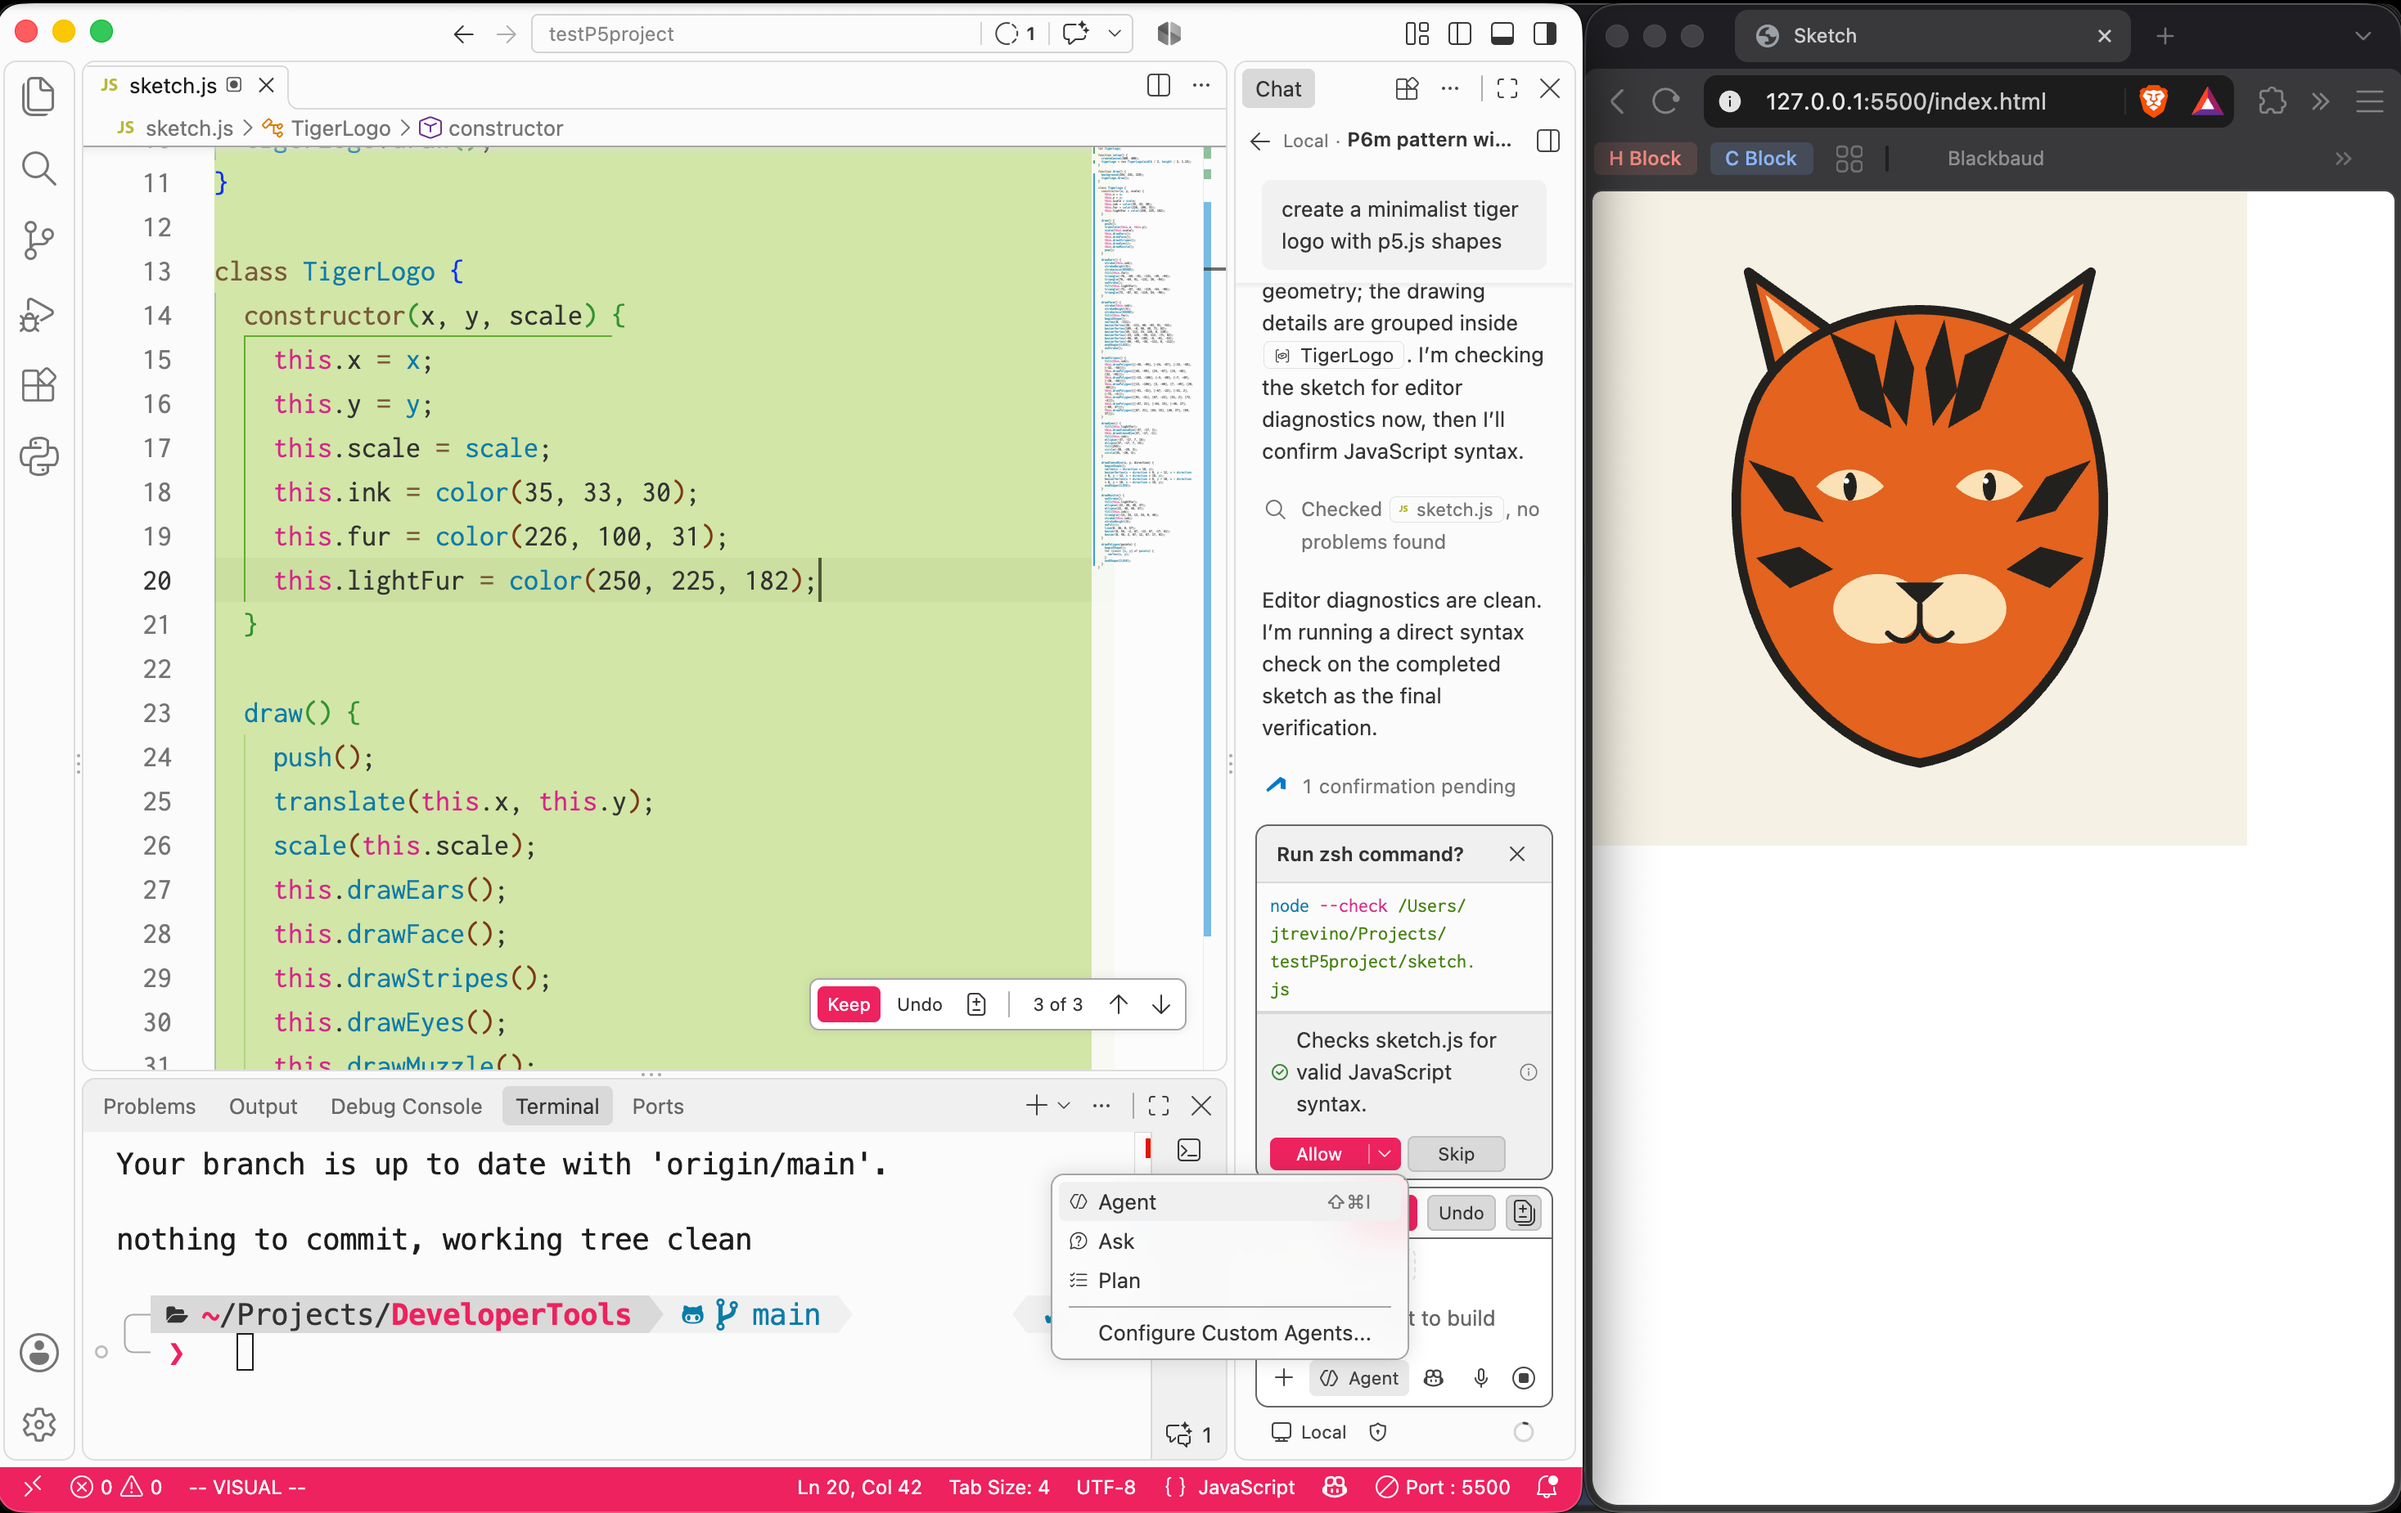
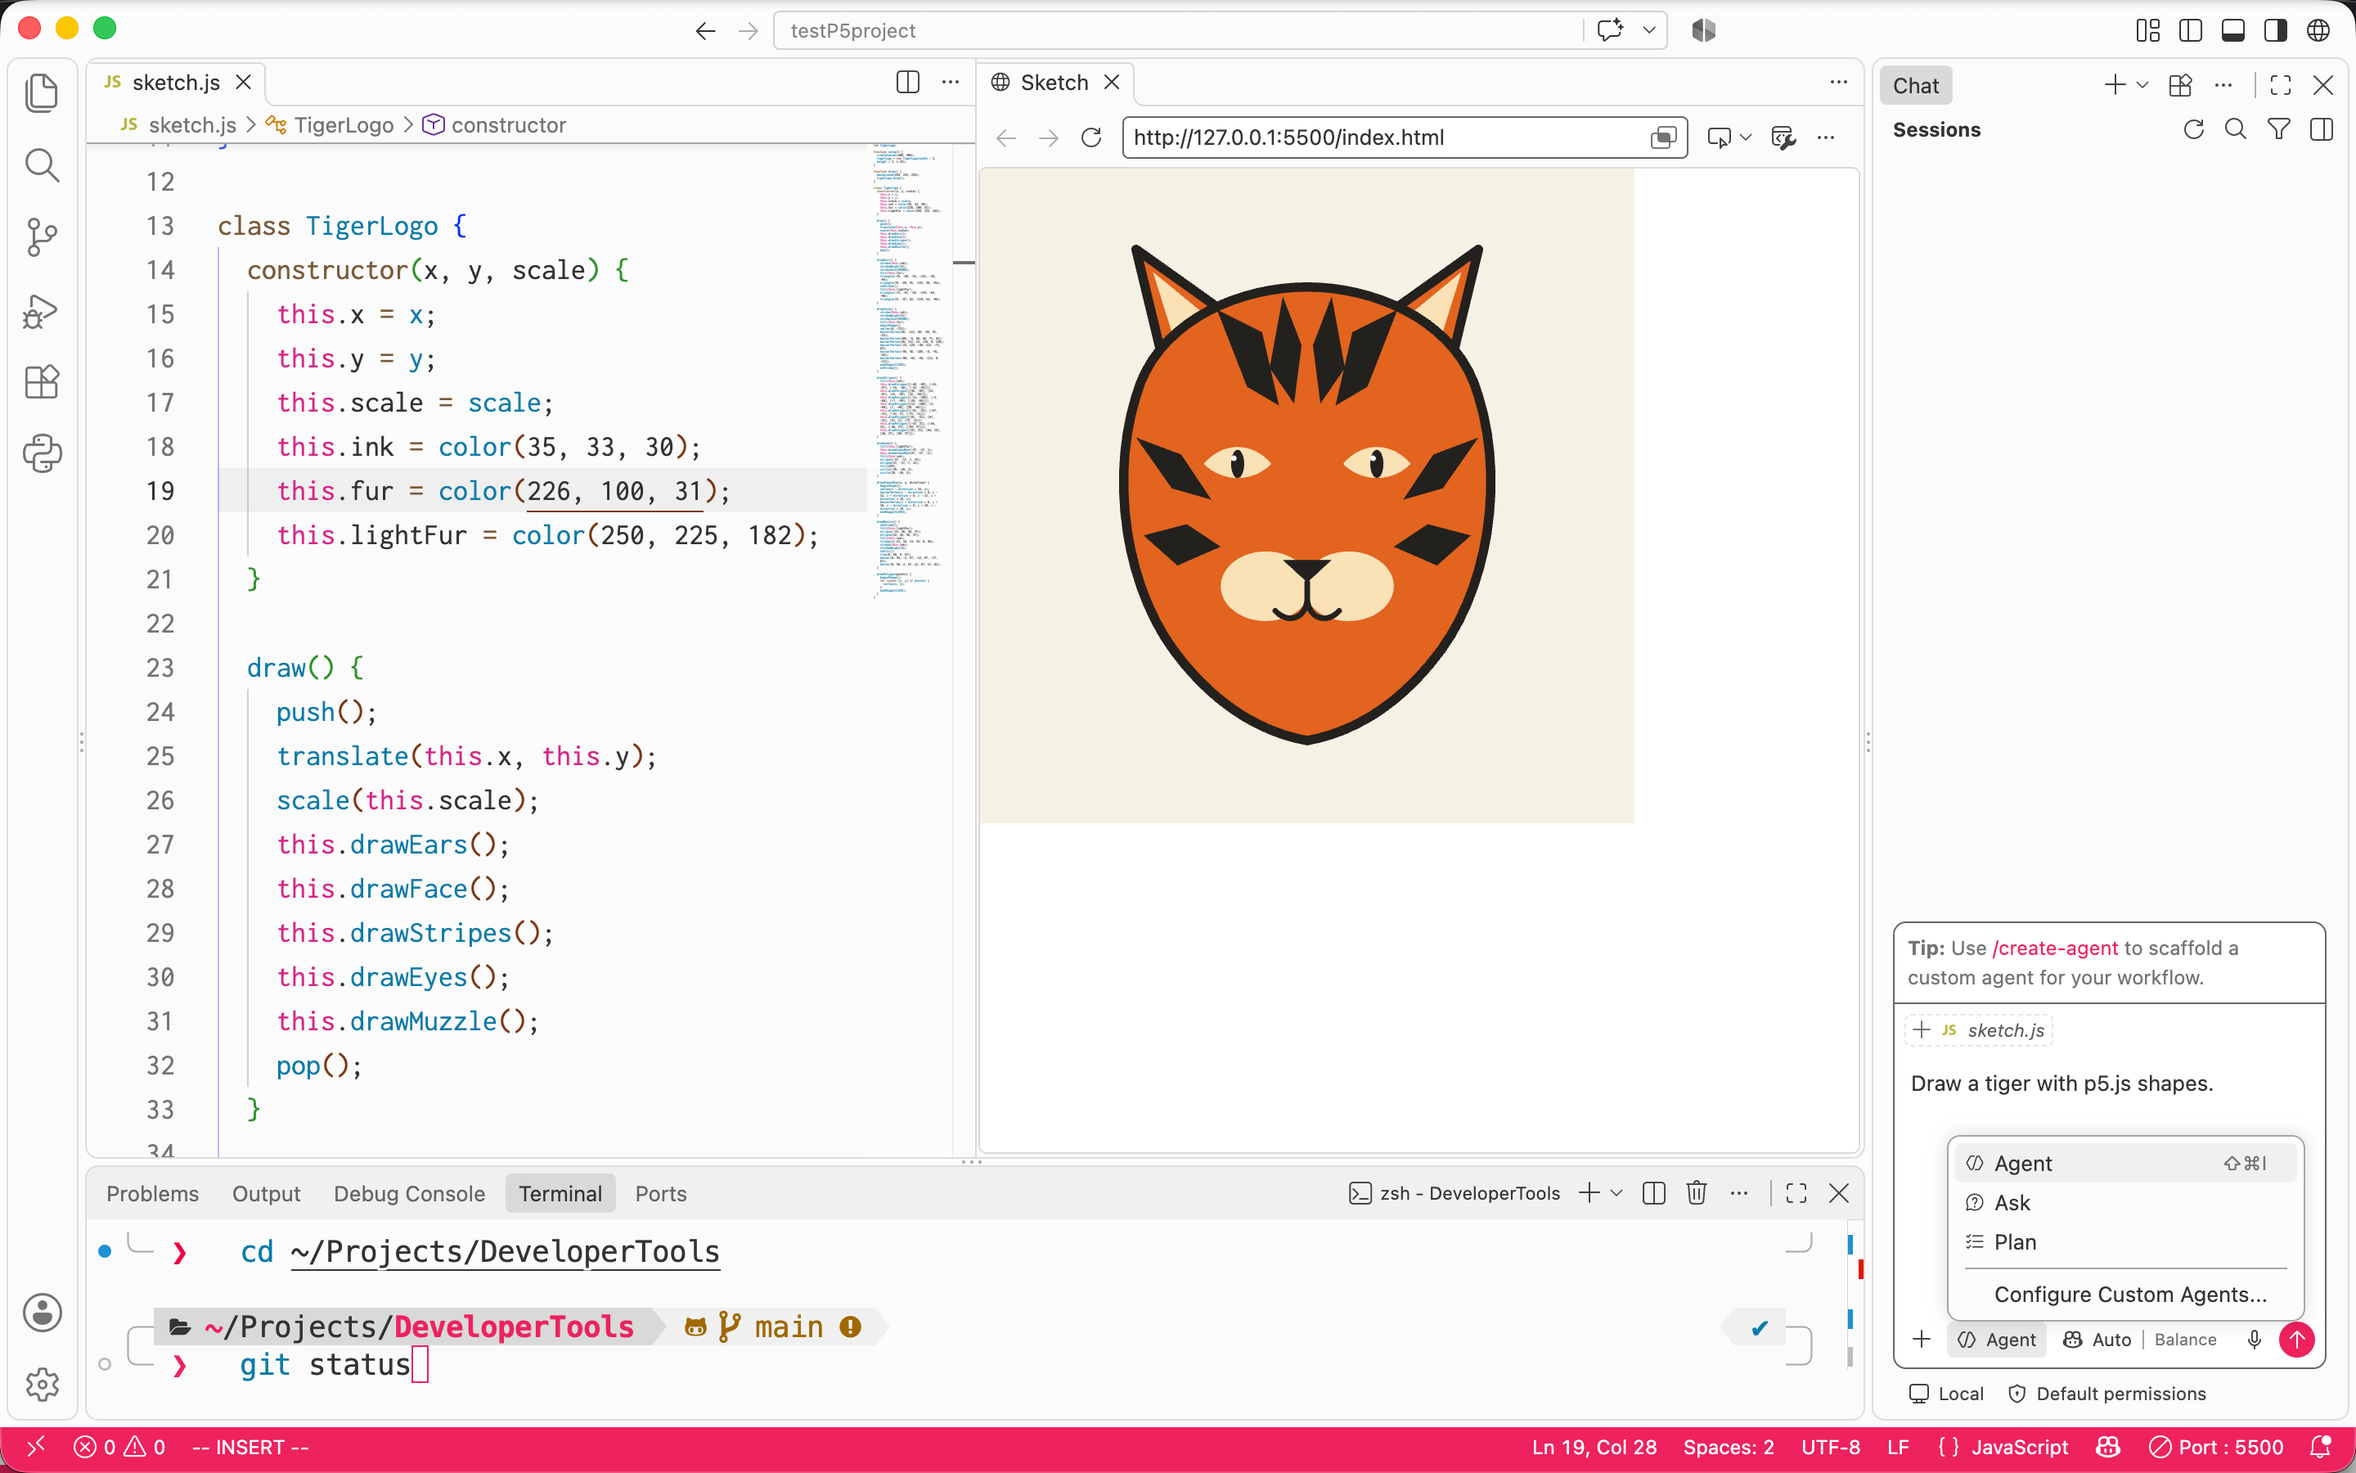
swapped in integrated terminal for screenshot

diff --git a/CLAUDE.md b/CLAUDE.md
@@ -39,6 +39,7 @@ Facts about these files that matter for distributing them to students:
 - `.zshrc` has no machine-specific paths. It uses `$HOME/.oh-my-zsh` and loads both zsh plugins from `${HOMEBREW_PREFIX:-/opt/homebrew}/share/...` (`HOMEBREW_PREFIX` comes from `brew shellenv` in `~/.zprofile`). Its last line sources `~/.zshrc.local` if that file exists.
 - Machine-specific shell settings go in `~/.zshrc.local`, which lives outside the repo. Jeffrey's holds only the conda block. The TeX path comes from `/etc/paths.d/TeX` and `$HOME/.local/bin` from `~/.zprofile`. Put new personal settings there, not in `.zshrc`.
 - `vscode/settings.json` sets `editor.fontFamily` to `Inconsolata, Menlo, monospace` so the editor looks different from the terminal (`terminal.integrated.fontFamily` is `MesloLGS NF`), because beginners confuse the two. Consolas was the first model, but it is a proprietary Microsoft font that cannot be installed by script; Inconsolata's designer cites Consolas as an inspiration (https://levien.com/type/myfonts/inconsolata.html). Roboto Mono was tried more than once on 2026-10-17; Jeffrey's current choice is Inconsolata. `editor.fontSize` and `terminal.integrated.fontSize` are both 18 (pixels), matching the p5.js web editor's default `fontSize: 18` in `client/modules/IDE/reducers/preferences.ts`.
+- Microsoft's Live Preview extension (`ms-vscode.live-server` 0.4.20) was tried on 2026-10-18 as a more integrated replacement for Live Server. Its preview did not auto-refresh on editor changes in a p5.js project, with either `livePreview.useIntegratedBrowser` true (the default) or false, so the tour stays on Live Server (right-click `index.html` > Open with Live Server, or the Go Live status-bar button).
 - p5.vscode 1.2.16 (last updated 2024-08-09) ships `p5types/tsconfig.json` with a `files` list naming `test/index.ts` and `test/unaugmented.ts`, which the extension does not include, and `"baseUrl": "../"`, which TypeScript 6 (bundled with VS Code 1.142) marks deprecated. Any project made with Create p5.js Project gets a `jsconfig.json` that includes `p5types/global.d.ts`, so VS Code loads that tsconfig and shows 3 errors in the Problems panel. `configure.sh` therefore overwrites the file (with a here document) with a copy that drops `baseUrl` and lists only `index.d.ts`, skipping it when `baseUrl` is already gone. Checked with VS Code's TypeScript 6.0.3: original 3 diagnostics, patched 0, and no type errors. Reinstalling the extension restores the original, so rerun `configure.sh`.
 - To make mistakes easier to see and fix (2026-10-18): `editor.guides.bracketPairs: true` in `settings.json`; the Error Lens extension in `extensions.txt` (Code Spell Checker was added and then removed the same day); and a `command_not_found_handler` function in `zsh/.zshrc` that prints `"NAME" is not a command. Check the spelling, or press the Up arrow to fix it.` to standard error and returns 127, so the prompt still shows the failure mark.
 - To make the terminal safer and more legible (2026-10-18): `zsh/.zshrc` defines an `rm` function that prints `(Type y and press Return to delete, or n and Return to keep.)` to standard error and then runs `command rm -i "$@"` (macOS `rm` cannot change its own "remove FILE?" wording, per `man rm`; a later `-f` overrides `-i`) and `alias ls='ls -FG'` (trailing `/` on folders; `-G` keeps the color oh-my-zsh's `ls -G` alias gave); `settings.json` sets `editor.mouseWheelZoom: true` (Command-scroll zooms the editor) and `terminal.integrated.cursorStyle: "line"`.
